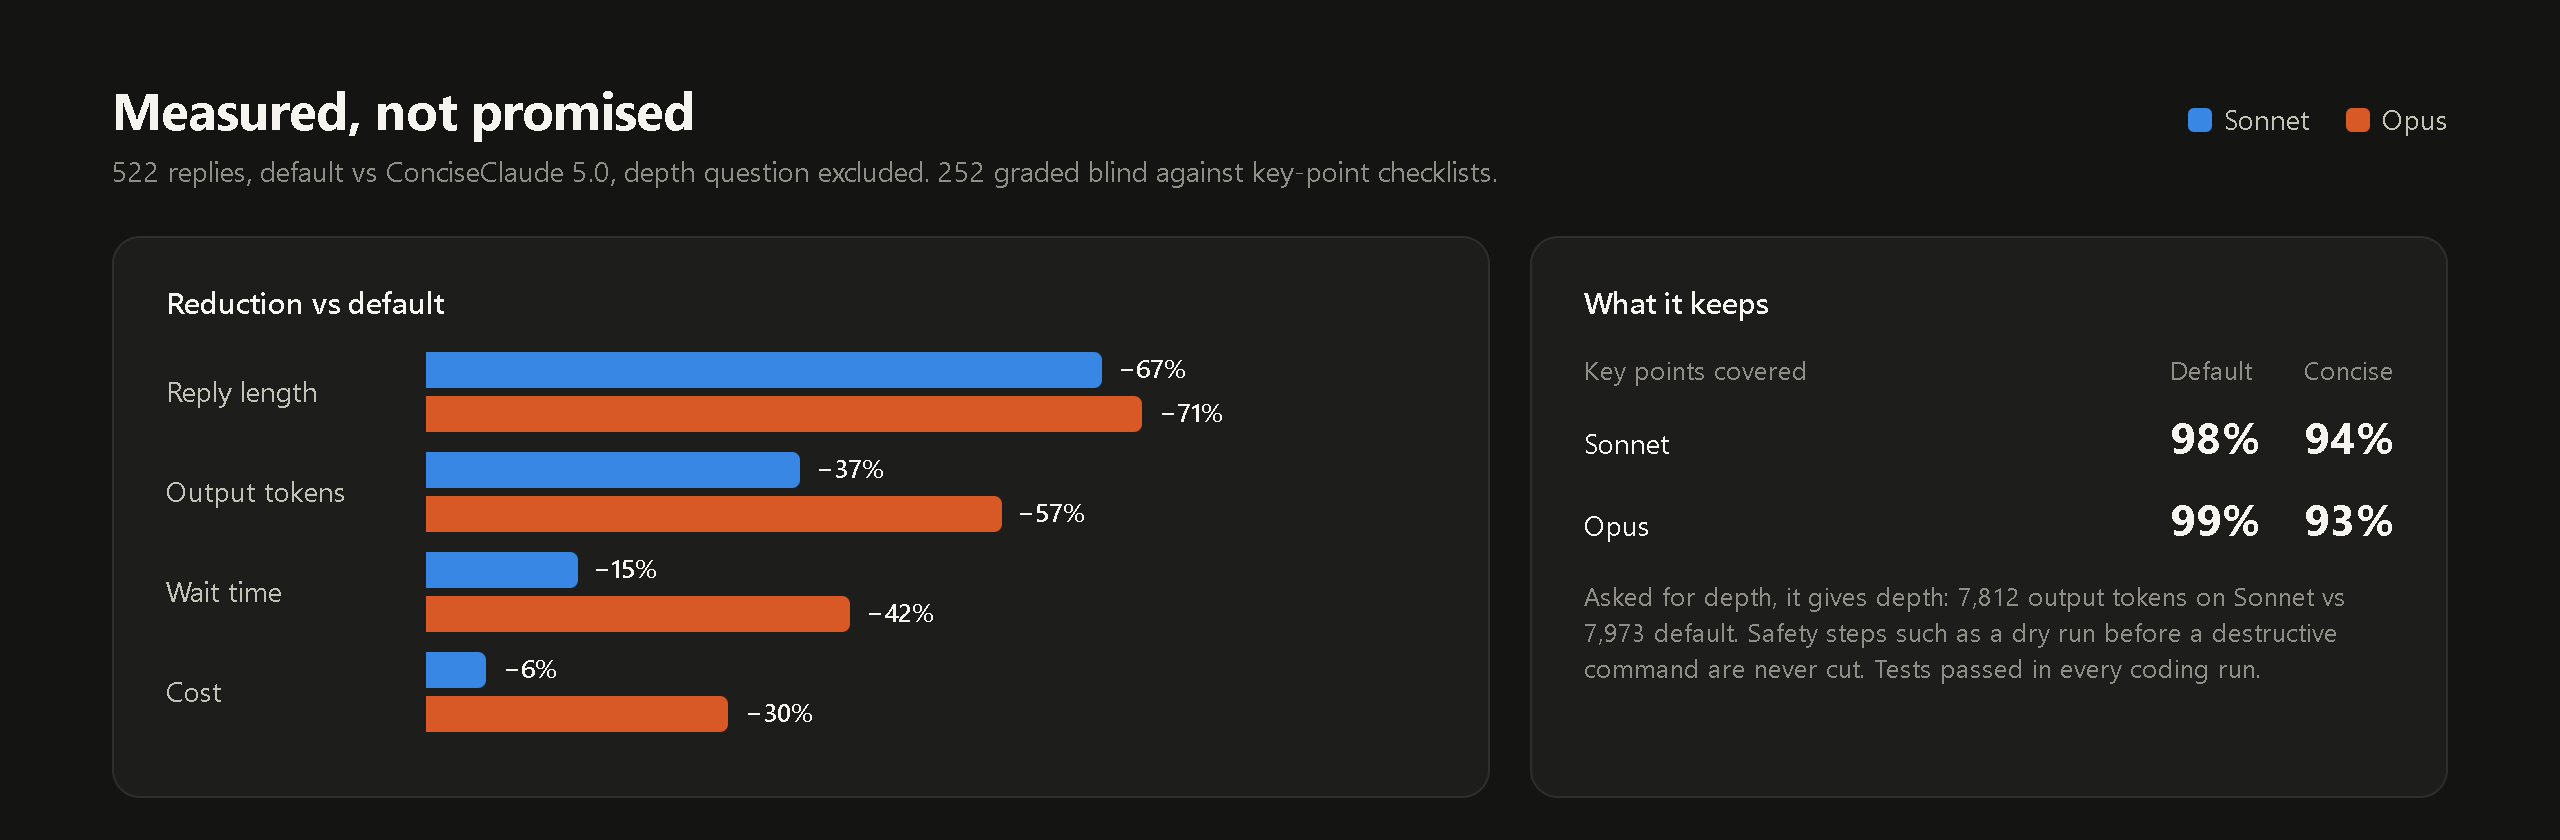
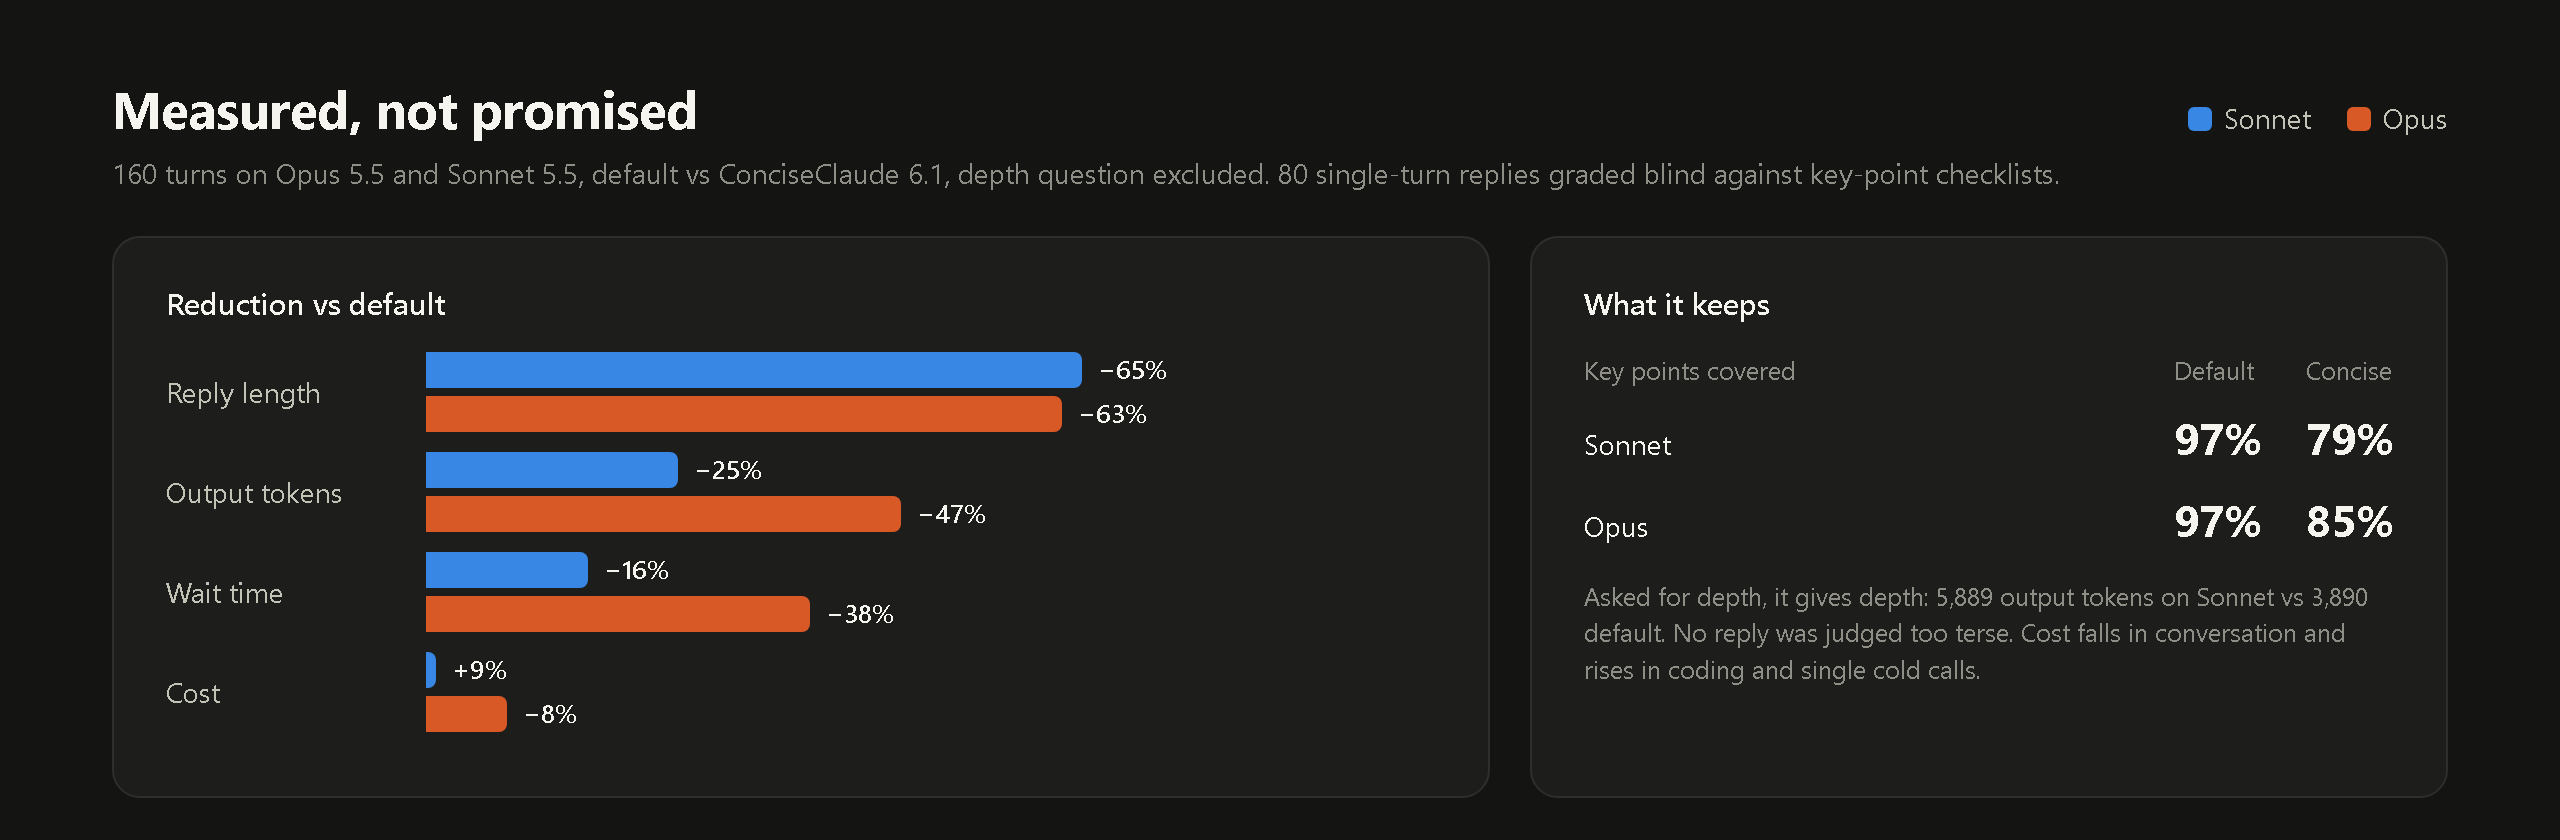
Benchmark 6.1 against default and 5.1 on Opus 5.5 and Sonnet 5.5 (#16)
160 turns plus a 5.1 control, graded blind. Replies are about 64%
shorter; output tokens fall 47% on Opus and 25% on Sonnet. Cost falls in
conversation and rises in coding and cold calls: Opus -8%, Sonnet +9%.
Key points covered: default 97%, 5.1 78%, 6.1 82%. README, hero and
results chart now show these figures instead of the 5.x ones.

Claude-Session: https://claude.ai/code/session_01UvB1AdHypAfKyfQqcSoAv2

diff --git a/assets/src/results.html b/assets/src/results.html
@@ -26,25 +26,25 @@ h2 { font-size: 26px; font-weight: 700; letter-spacing: -0.01em; }
 </style></head>
 <body><div class="wrap">
   <div class="top">
-    <div><h2>Measured, not promised</h2><p class="sub">522 replies, default vs ConciseClaude 5.0, depth question excluded. 252 graded blind against key-point checklists.</p></div>
+    <div><h2>Measured, not promised</h2><p class="sub">160 turns on Opus 5.5 and Sonnet 5.5, default vs ConciseClaude 6.1, depth question excluded. 80 single-turn replies graded blind against key-point checklists.</p></div>
     <div class="legend"><span><i class="sw" style="background:var(--s)"></i>Sonnet</span><span><i class="sw" style="background:var(--o)"></i>Opus</span></div>
   </div>
   <div class="grid">
     <div class="card">
       <h3>Reduction vs default</h3>
-      <div class="row"><div class="lab">Reply length</div><div class="bars"><div class="bar" style="width:67%;background:var(--s)"><span>−67%</span></div><div class="bar" style="width:71%;background:var(--o)"><span>−71%</span></div></div></div>
-      <div class="row"><div class="lab">Output tokens</div><div class="bars"><div class="bar" style="width:37%;background:var(--s)"><span>−37%</span></div><div class="bar" style="width:57%;background:var(--o)"><span>−57%</span></div></div></div>
-      <div class="row"><div class="lab">Wait time</div><div class="bars"><div class="bar" style="width:15%;background:var(--s)"><span>−15%</span></div><div class="bar" style="width:42%;background:var(--o)"><span>−42%</span></div></div></div>
-      <div class="row"><div class="lab">Cost</div><div class="bars"><div class="bar" style="width:6%;background:var(--s)"><span>−6%</span></div><div class="bar" style="width:30%;background:var(--o)"><span>−30%</span></div></div></div>
+      <div class="row"><div class="lab">Reply length</div><div class="bars"><div class="bar" style="width:65%;background:var(--s)"><span>−65%</span></div><div class="bar" style="width:63%;background:var(--o)"><span>−63%</span></div></div></div>
+      <div class="row"><div class="lab">Output tokens</div><div class="bars"><div class="bar" style="width:25%;background:var(--s)"><span>−25%</span></div><div class="bar" style="width:47%;background:var(--o)"><span>−47%</span></div></div></div>
+      <div class="row"><div class="lab">Wait time</div><div class="bars"><div class="bar" style="width:16%;background:var(--s)"><span>−16%</span></div><div class="bar" style="width:38%;background:var(--o)"><span>−38%</span></div></div></div>
+      <div class="row"><div class="lab">Cost</div><div class="bars"><div class="bar" style="width:1%;background:var(--s)"><span>+9%</span></div><div class="bar" style="width:8%;background:var(--o)"><span>−8%</span></div></div></div>
     </div>
     <div class="card">
       <h3>What it keeps</h3>
       <div class="cov">
         <span class="h">Key points covered</span><span class="h">Default</span><span class="h">Concise</span>
-        <span>Sonnet</span><b>98%</b><b>94%</b>
-        <span>Opus</span><b>99%</b><b>93%</b>
+        <span>Sonnet</span><b>97%</b><b>79%</b>
+        <span>Opus</span><b>97%</b><b>85%</b>
       </div>
-      <p class="note">Asked for depth, it gives depth: 7,812 output tokens on Sonnet vs 7,973 default. Safety steps such as a dry run before a destructive command are never cut. Tests passed in every coding run.</p>
+      <p class="note">Asked for depth, it gives depth: 5,889 output tokens on Sonnet vs 3,890 default. No reply was judged too terse. Cost falls in conversation and rises in coding and single cold calls.</p>
     </div>
   </div>
 </div></body></html>

diff --git a/assets/src/hero.html b/assets/src/hero.html
@@ -32,11 +32,11 @@ h1 { font-size: 46px; font-weight: 700; letter-spacing: -0.02em; line-height: 1.
     <h1>ConciseClaude</h1>
     <p class="tag">Claude Code that gets to the point. Same work, a third of the words.</p>
     <div class="stats">
-      <div class="stat"><b>−71%</b><span>reply length</span></div>
-      <div class="stat"><b>−30%</b><span>cost</span></div>
-      <div class="stat"><b>−42%</b><span>wait time</span></div>
+      <div class="stat"><b>−63%</b><span>reply length</span></div>
+      <div class="stat"><b>−47%</b><span>output tokens</span></div>
+      <div class="stat"><b>−38%</b><span>wait time</span></div>
     </div>
-    <p class="foot">Opus, 522-reply benchmark of 5.x, graded blind. Sonnet: −67% / −6% / −15%.</p>
+    <p class="foot">Opus 5.5, 6.1 benchmark, graded blind. Sonnet 5.5: −65% / −25% / −16%.</p>
   </div>
   <div class="right">
     <div class="card">

diff --git a/docs/bench-2026-10-15-v6.md b/docs/bench-2026-10-15-v6.md
@@ -1,0 +1,81 @@
+# 6.1 benchmark, 2026-10-15
+
+This run checks what 6.0 and 6.1 changed: a 600-character budget instead of
+400, plain-word status tags instead of glyphs, the plain-writing rules, and
+the code and repo-text rules. It compares no plugin (default) with 6.1.1 on
+Opus 5.5 and Sonnet 5.5, using headless Claude Code with `--plugin-dir`.
+Each model ran `bench/ab.py`'s eight questions plus a depth question and a
+PR-description draft, twice each, the slugify coding task twice, and the
+three six-turn conversations once: 160 turns. A 5.1.0 control arm ran the
+single-turn questions only. The runs cost $17.21 at API-rate estimates.
+
+Replies were graded blind by Sonnet subagents against 6 to 8 key points per
+question, written by a separate subagent before any replies existed. Status
+tags and glyphs were stripped from the first line so the grader couldn't
+tell the arms apart.
+
+| | Opus default | Opus 6.1 | Sonnet default | Sonnet 6.1 |
+|---|---:|---:|---:|---:|
+| Median reply prose, single-turn | 1,654 | 606 (−63%) | 1,508 | 524 (−65%) |
+| Output tokens, all but depth | | −47% | | −25% |
+| Wall time, all but depth | | −38% | | −16% |
+| Cost, all but depth | | −8% | | +9% |
+| Depth question, output tokens | 6,016 | 6,364 | 3,890 | 5,889 |
+| Bold spans per reply | 9.1 | 0 | 7.0 | 0 |
+| Comment lines in code written | 1 of 283 | 3 of 260 | 0 of 212 | 0 of 213 |
+
+Cost depends on the work:
+
+| | Opus | Sonnet |
+|---|---:|---:|
+| Six-turn conversations, ops and design | −31%, −50% | −11%, −19% |
+| Six-turn coding session | +26% | +19% |
+| Single cold calls | +28% | +43% |
+
+The plugin saves where replies dominate the bill, in conversation. In a cold
+call, writing the longer style text to the prompt cache costs more than the
+shorter reply saves. In coding, the code rules join the context on the first
+edit and tool output dominates. Each conversation ran once, so treat the
+per-conversation figures as rough.
+
+## Coverage
+
+| Arm | Key points covered | Too terse | Clarity (1-5) | Factual errors |
+|---|---:|---:|---:|---:|
+| Default | 97% | 0 of 40 | 4.9 | 1 |
+| 5.1.0 | 78% | 0 of 40 | 4.6 | 2 |
+| 6.1 | 82% | 0 of 40 | 4.6 | 0 |
+
+The 5.1 replies were graded by a third grader, along with 20 replies from
+the other arms for calibration. That grader scored the same 6.1 replies 5
+points higher than the first graders did and the default replies the same,
+so 6.1's lead over 5.1 is probably a little larger than the table shows.
+
+6.1 covers more than 5.1 and adds no factual errors, but it still drops
+about 15 points against default. Most of the misses are secondary: when to
+rebase rather than merge, reproducing a CI failure locally, or noting that
+`avg` is correct for non-empty lists. Some aren't. No 6.1 rate-limiting plan
+chose an algorithm (0 of 4), and half the process-versus-thread answers left
+out isolation and race conditions. The 5.0 benchmark reported 93–94% on a
+different rubric and grader, so its numbers aren't comparable with these.
+
+## Writing tells
+
+Per single-turn reply, counted by the 6.0 meter:
+
+| | Default | 5.1 | 6.1 |
+|---|---:|---:|---:|
+| Opus emoji and status glyphs | 0 | 4.1 | 0 |
+| Opus bold spans | 9.1 | 1.6 | 0 |
+| Sonnet emoji and status glyphs | 0 | 2.5 | 0 |
+| Sonnet bold spans | 7.0 | 1.8 | 0 |
+
+Opus opened 89% of replies with a status tag and Sonnet 28%.
+
+## Next
+
+- A rule that the answer covers every part the question asks for, including
+  the core distinction an explanation turns on and the choice a plan
+  depends on, then a rerun of the same rubric.
+- Shorter style and code-rule text, to bring single-call and coding costs
+  down.

diff --git a/README.md b/README.md
@@ -29,13 +29,15 @@ you get it, and errors, risks and safety steps are never trimmed. Code comes
 without commentary, and a meter measures every reply so the rules don't
 drift.
 
-In the 5.x benchmark, Opus replies were 71% shorter, cost 30% less and
-arrived 42% sooner; Sonnet replies were 67% shorter, 6% cheaper and 15%
-sooner. A blind grader found 93–94% of the key points a full answer covers,
-against 98–99% for the default. Those figures predate 6.0, which allows 600
-characters per reply instead of 400, and haven't been re-run yet. A Stop hook
-scores every reply and nudges Claude when one runs long;
-`/conciseclaude:meter report` shows how it's doing.
+In the 6.1 benchmark ([write-up](docs/bench-2026-10-15-v6.md)), replies were
+about 64% shorter on Opus 5.5 and Sonnet 5.5, output tokens fell 47% and
+25%, and replies arrived 38% and 16% sooner. Cost fell in conversation (Opus
+31–50%, Sonnet 11–19%) but rose in coding and single cold calls, so overall
+Opus came out 8% cheaper and Sonnet 9% dearer. Blind graders found 82% of
+the key points a full answer covers, against 97% for the default and 78%
+for 5.1, with no reply judged too terse. A Stop hook scores every reply and
+nudges Claude when one runs long; `/conciseclaude:meter report` shows how
+it's doing.
 
 <picture>
   <source media="(prefers-color-scheme: dark)" srcset="assets/results-dark.png">
@@ -183,6 +185,10 @@ Each point comes from running an earlier version of this system.
   exceptions, forensic comments, dividers) and only warns on ratios.
 
 ## Evidence
+**6.1 benchmark, 2026-10-15** ([full write-up](docs/bench-2026-10-15-v6.md)).
+Default against 6.1 on Opus 5.5 and Sonnet 5.5, 160 turns, with a 5.1
+control arm and blind grading. The numbers are in the intro above.
+
 **Controlled A/B, 2026-10-03** ([full write-up](docs/token-ab-2026-10-03.md)).
 Headless Claude Code on Sonnet, with the style plus hooks on versus the
 default style, in six-turn conversations run three times each:
